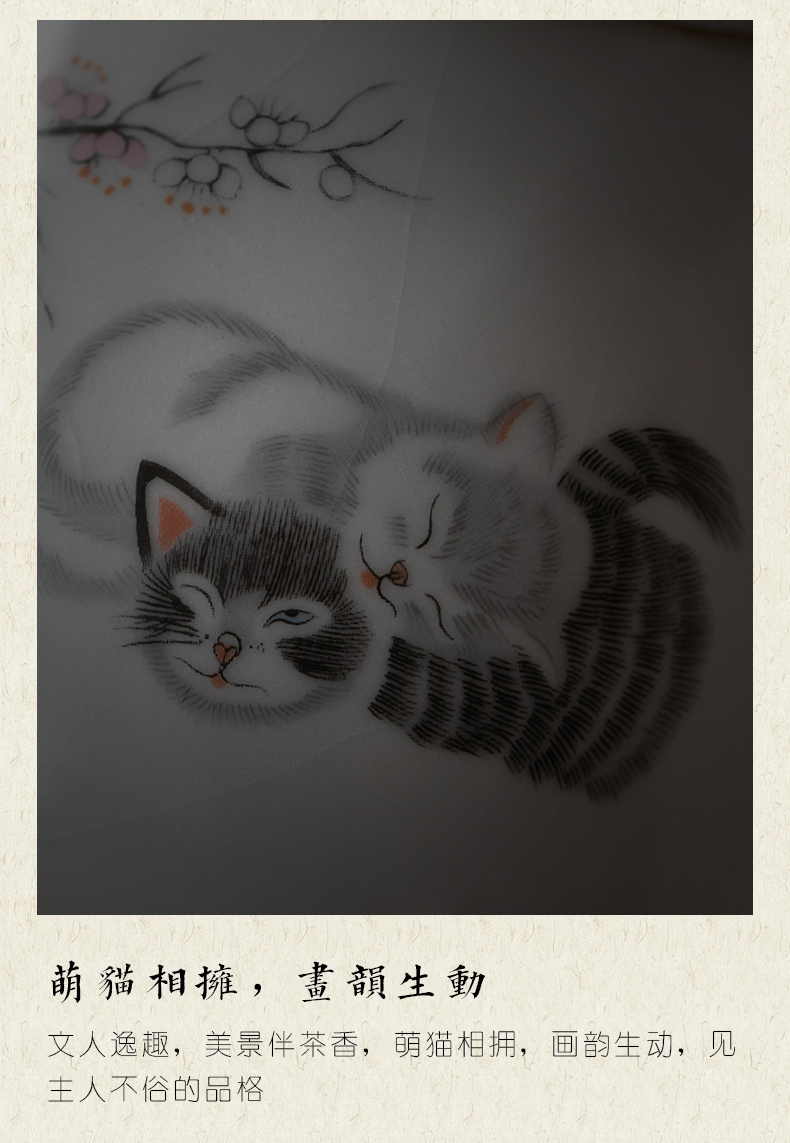
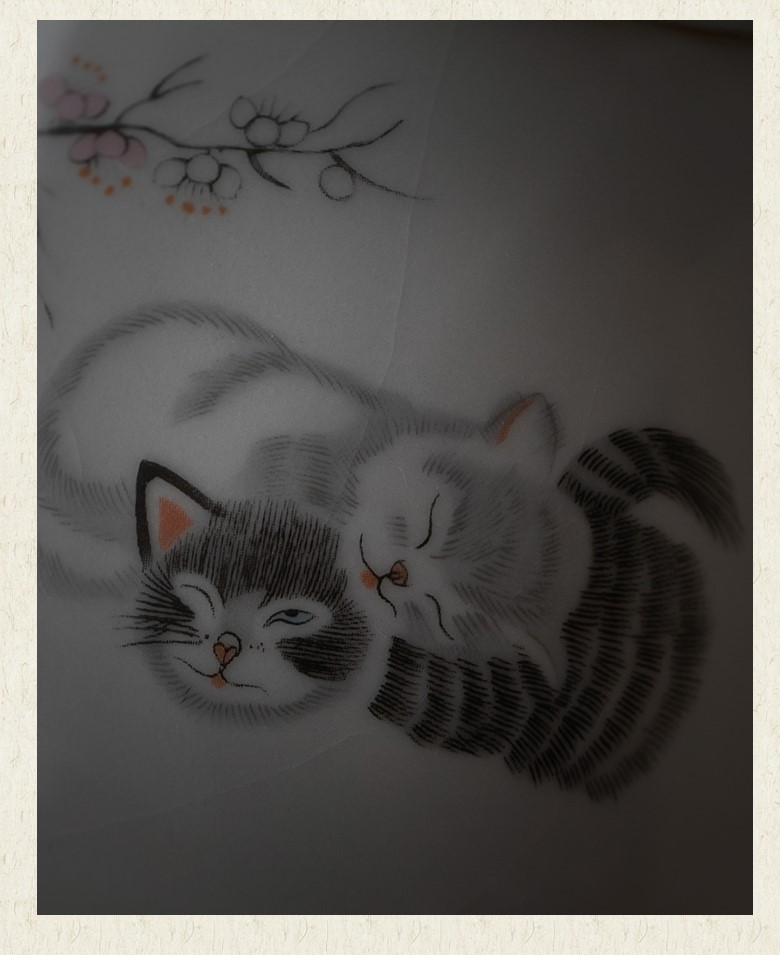
add 023

diff --git a/products/023_寂艺古朴手把壶中式情侣猫复古泡茶壶家用茶室汝窑冰裂茶具过滤壶-tmall.com天猫/item_description.html b/products/023_寂艺古朴手把壶中式情侣猫复古泡茶壶家用茶室汝窑冰裂茶具过滤壶-tmall.com天猫/item_description.html
@@ -29,8 +29,22 @@
 
 
 
-      <img style="width: 100%;" src="https://raw.githubusercontent.com/amanlikeair/SINO-GALLERY_ebay_site/master/products/022_ZodiacSignsPig/img_ebay_display/1_top.jpg">
-    
+      <img style="width: 100%;" src="https://raw.githubusercontent.com/amanlikeair/SINO-GALLERY_ebay_site/master/products/023_%E5%AF%82%E8%89%BA%E5%8F%A4%E6%9C%B4%E6%89%8B%E6%8A%8A%E5%A3%B6%E4%B8%AD%E5%BC%8F%E6%83%85%E4%BE%A3%E7%8C%AB%E5%A4%8D%E5%8F%A4%E6%B3%A1%E8%8C%B6%E5%A3%B6%E5%AE%B6%E7%94%A8%E8%8C%B6%E5%AE%A4%E6%B1%9D%E7%AA%91%E5%86%B0%E8%A3%82%E8%8C%B6%E5%85%B7%E8%BF%87%E6%BB%A4%E5%A3%B6-tmall.com%E5%A4%A9%E7%8C%AB/%E8%AF%A6%E6%83%85-01.jpg">
+      <img style="width: 100%;" src="https://raw.githubusercontent.com/amanlikeair/SINO-GALLERY_ebay_site/master/products/023_%E5%AF%82%E8%89%BA%E5%8F%A4%E6%9C%B4%E6%89%8B%E6%8A%8A%E5%A3%B6%E4%B8%AD%E5%BC%8F%E6%83%85%E4%BE%A3%E7%8C%AB%E5%A4%8D%E5%8F%A4%E6%B3%A1%E8%8C%B6%E5%A3%B6%E5%AE%B6%E7%94%A8%E8%8C%B6%E5%AE%A4%E6%B1%9D%E7%AA%91%E5%86%B0%E8%A3%82%E8%8C%B6%E5%85%B7%E8%BF%87%E6%BB%A4%E5%A3%B6-tmall.com%E5%A4%A9%E7%8C%AB/%E8%AF%A6%E6%83%85-02.jpg">
+      <img style="width: 100%;" src="https://raw.githubusercontent.com/amanlikeair/SINO-GALLERY_ebay_site/master/products/023_%E5%AF%82%E8%89%BA%E5%8F%A4%E6%9C%B4%E6%89%8B%E6%8A%8A%E5%A3%B6%E4%B8%AD%E5%BC%8F%E6%83%85%E4%BE%A3%E7%8C%AB%E5%A4%8D%E5%8F%A4%E6%B3%A1%E8%8C%B6%E5%A3%B6%E5%AE%B6%E7%94%A8%E8%8C%B6%E5%AE%A4%E6%B1%9D%E7%AA%91%E5%86%B0%E8%A3%82%E8%8C%B6%E5%85%B7%E8%BF%87%E6%BB%A4%E5%A3%B6-tmall.com%E5%A4%A9%E7%8C%AB/%E8%AF%A6%E6%83%85-03.jpg">
+      <img style="width: 100%;" src="https://raw.githubusercontent.com/amanlikeair/SINO-GALLERY_ebay_site/master/products/023_%E5%AF%82%E8%89%BA%E5%8F%A4%E6%9C%B4%E6%89%8B%E6%8A%8A%E5%A3%B6%E4%B8%AD%E5%BC%8F%E6%83%85%E4%BE%A3%E7%8C%AB%E5%A4%8D%E5%8F%A4%E6%B3%A1%E8%8C%B6%E5%A3%B6%E5%AE%B6%E7%94%A8%E8%8C%B6%E5%AE%A4%E6%B1%9D%E7%AA%91%E5%86%B0%E8%A3%82%E8%8C%B6%E5%85%B7%E8%BF%87%E6%BB%A4%E5%A3%B6-tmall.com%E5%A4%A9%E7%8C%AB/%E8%AF%A6%E6%83%85-04.jpg">
+      <img style="width: 100%;" src="https://raw.githubusercontent.com/amanlikeair/SINO-GALLERY_ebay_site/master/products/023_%E5%AF%82%E8%89%BA%E5%8F%A4%E6%9C%B4%E6%89%8B%E6%8A%8A%E5%A3%B6%E4%B8%AD%E5%BC%8F%E6%83%85%E4%BE%A3%E7%8C%AB%E5%A4%8D%E5%8F%A4%E6%B3%A1%E8%8C%B6%E5%A3%B6%E5%AE%B6%E7%94%A8%E8%8C%B6%E5%AE%A4%E6%B1%9D%E7%AA%91%E5%86%B0%E8%A3%82%E8%8C%B6%E5%85%B7%E8%BF%87%E6%BB%A4%E5%A3%B6-tmall.com%E5%A4%A9%E7%8C%AB/%E8%AF%A6%E6%83%85-05.jpg">
+      <img style="width: 100%;" src="https://raw.githubusercontent.com/amanlikeair/SINO-GALLERY_ebay_site/master/products/023_%E5%AF%82%E8%89%BA%E5%8F%A4%E6%9C%B4%E6%89%8B%E6%8A%8A%E5%A3%B6%E4%B8%AD%E5%BC%8F%E6%83%85%E4%BE%A3%E7%8C%AB%E5%A4%8D%E5%8F%A4%E6%B3%A1%E8%8C%B6%E5%A3%B6%E5%AE%B6%E7%94%A8%E8%8C%B6%E5%AE%A4%E6%B1%9D%E7%AA%91%E5%86%B0%E8%A3%82%E8%8C%B6%E5%85%B7%E8%BF%87%E6%BB%A4%E5%A3%B6-tmall.com%E5%A4%A9%E7%8C%AB/%E8%AF%A6%E6%83%85-06.jpg">
+      <img style="width: 100%;" src="https://raw.githubusercontent.com/amanlikeair/SINO-GALLERY_ebay_site/master/products/023_%E5%AF%82%E8%89%BA%E5%8F%A4%E6%9C%B4%E6%89%8B%E6%8A%8A%E5%A3%B6%E4%B8%AD%E5%BC%8F%E6%83%85%E4%BE%A3%E7%8C%AB%E5%A4%8D%E5%8F%A4%E6%B3%A1%E8%8C%B6%E5%A3%B6%E5%AE%B6%E7%94%A8%E8%8C%B6%E5%AE%A4%E6%B1%9D%E7%AA%91%E5%86%B0%E8%A3%82%E8%8C%B6%E5%85%B7%E8%BF%87%E6%BB%A4%E5%A3%B6-tmall.com%E5%A4%A9%E7%8C%AB/%E8%AF%A6%E6%83%85-07.jpg">
+      <img style="width: 100%;" src="https://raw.githubusercontent.com/amanlikeair/SINO-GALLERY_ebay_site/master/products/023_%E5%AF%82%E8%89%BA%E5%8F%A4%E6%9C%B4%E6%89%8B%E6%8A%8A%E5%A3%B6%E4%B8%AD%E5%BC%8F%E6%83%85%E4%BE%A3%E7%8C%AB%E5%A4%8D%E5%8F%A4%E6%B3%A1%E8%8C%B6%E5%A3%B6%E5%AE%B6%E7%94%A8%E8%8C%B6%E5%AE%A4%E6%B1%9D%E7%AA%91%E5%86%B0%E8%A3%82%E8%8C%B6%E5%85%B7%E8%BF%87%E6%BB%A4%E5%A3%B6-tmall.com%E5%A4%A9%E7%8C%AB/%E8%AF%A6%E6%83%85-08.jpg">
+      <img style="width: 100%;" src="https://raw.githubusercontent.com/amanlikeair/SINO-GALLERY_ebay_site/master/products/023_%E5%AF%82%E8%89%BA%E5%8F%A4%E6%9C%B4%E6%89%8B%E6%8A%8A%E5%A3%B6%E4%B8%AD%E5%BC%8F%E6%83%85%E4%BE%A3%E7%8C%AB%E5%A4%8D%E5%8F%A4%E6%B3%A1%E8%8C%B6%E5%A3%B6%E5%AE%B6%E7%94%A8%E8%8C%B6%E5%AE%A4%E6%B1%9D%E7%AA%91%E5%86%B0%E8%A3%82%E8%8C%B6%E5%85%B7%E8%BF%87%E6%BB%A4%E5%A3%B6-tmall.com%E5%A4%A9%E7%8C%AB/%E8%AF%A6%E6%83%85-09.jpg">
+      <img style="width: 100%;" src="https://raw.githubusercontent.com/amanlikeair/SINO-GALLERY_ebay_site/master/products/023_%E5%AF%82%E8%89%BA%E5%8F%A4%E6%9C%B4%E6%89%8B%E6%8A%8A%E5%A3%B6%E4%B8%AD%E5%BC%8F%E6%83%85%E4%BE%A3%E7%8C%AB%E5%A4%8D%E5%8F%A4%E6%B3%A1%E8%8C%B6%E5%A3%B6%E5%AE%B6%E7%94%A8%E8%8C%B6%E5%AE%A4%E6%B1%9D%E7%AA%91%E5%86%B0%E8%A3%82%E8%8C%B6%E5%85%B7%E8%BF%87%E6%BB%A4%E5%A3%B6-tmall.com%E5%A4%A9%E7%8C%AB/%E8%AF%A6%E6%83%85-10.jpg">
+      <img style="width: 100%;" src="https://raw.githubusercontent.com/amanlikeair/SINO-GALLERY_ebay_site/master/products/023_%E5%AF%82%E8%89%BA%E5%8F%A4%E6%9C%B4%E6%89%8B%E6%8A%8A%E5%A3%B6%E4%B8%AD%E5%BC%8F%E6%83%85%E4%BE%A3%E7%8C%AB%E5%A4%8D%E5%8F%A4%E6%B3%A1%E8%8C%B6%E5%A3%B6%E5%AE%B6%E7%94%A8%E8%8C%B6%E5%AE%A4%E6%B1%9D%E7%AA%91%E5%86%B0%E8%A3%82%E8%8C%B6%E5%85%B7%E8%BF%87%E6%BB%A4%E5%A3%B6-tmall.com%E5%A4%A9%E7%8C%AB/%E8%AF%A6%E6%83%85-11.jpg">
+      <img style="width: 100%;" src="https://raw.githubusercontent.com/amanlikeair/SINO-GALLERY_ebay_site/master/products/023_%E5%AF%82%E8%89%BA%E5%8F%A4%E6%9C%B4%E6%89%8B%E6%8A%8A%E5%A3%B6%E4%B8%AD%E5%BC%8F%E6%83%85%E4%BE%A3%E7%8C%AB%E5%A4%8D%E5%8F%A4%E6%B3%A1%E8%8C%B6%E5%A3%B6%E5%AE%B6%E7%94%A8%E8%8C%B6%E5%AE%A4%E6%B1%9D%E7%AA%91%E5%86%B0%E8%A3%82%E8%8C%B6%E5%85%B7%E8%BF%87%E6%BB%A4%E5%A3%B6-tmall.com%E5%A4%A9%E7%8C%AB/%E8%AF%A6%E6%83%85-12.jpg">
+      <img style="width: 100%;" src="https://raw.githubusercontent.com/amanlikeair/SINO-GALLERY_ebay_site/master/products/023_%E5%AF%82%E8%89%BA%E5%8F%A4%E6%9C%B4%E6%89%8B%E6%8A%8A%E5%A3%B6%E4%B8%AD%E5%BC%8F%E6%83%85%E4%BE%A3%E7%8C%AB%E5%A4%8D%E5%8F%A4%E6%B3%A1%E8%8C%B6%E5%A3%B6%E5%AE%B6%E7%94%A8%E8%8C%B6%E5%AE%A4%E6%B1%9D%E7%AA%91%E5%86%B0%E8%A3%82%E8%8C%B6%E5%85%B7%E8%BF%87%E6%BB%A4%E5%A3%B6-tmall.com%E5%A4%A9%E7%8C%AB/%E8%AF%A6%E6%83%85-13.jpg">
+      <img style="width: 100%;" src="https://raw.githubusercontent.com/amanlikeair/SINO-GALLERY_ebay_site/master/products/023_%E5%AF%82%E8%89%BA%E5%8F%A4%E6%9C%B4%E6%89%8B%E6%8A%8A%E5%A3%B6%E4%B8%AD%E5%BC%8F%E6%83%85%E4%BE%A3%E7%8C%AB%E5%A4%8D%E5%8F%A4%E6%B3%A1%E8%8C%B6%E5%A3%B6%E5%AE%B6%E7%94%A8%E8%8C%B6%E5%AE%A4%E6%B1%9D%E7%AA%91%E5%86%B0%E8%A3%82%E8%8C%B6%E5%85%B7%E8%BF%87%E6%BB%A4%E5%A3%B6-tmall.com%E5%A4%A9%E7%8C%AB/%E8%AF%A6%E6%83%85-14.jpg">
+
+
 
 
 
